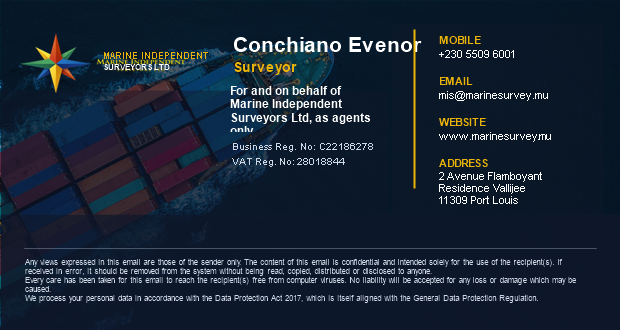
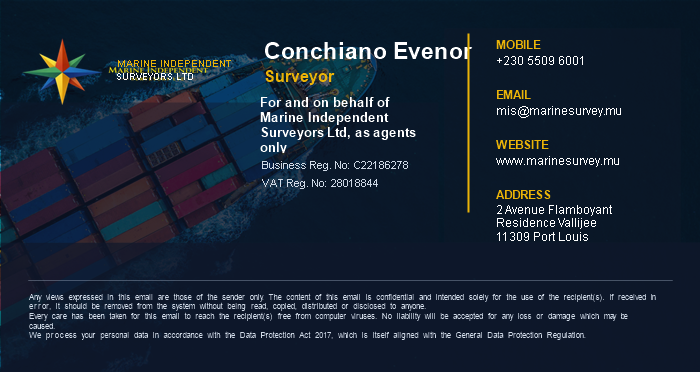
Improve signature readability and spacing

diff --git a/src/App.tsx b/src/App.tsx
@@ -76,7 +76,7 @@ export default function App() {
                 cellSpacing="0"
                 border={0}
                 style={{
-                  width: '700px',
+                  width: '720px',
                   borderCollapse: 'collapse',
                   fontFamily: 'Arial, sans-serif',
                   backgroundColor: '#ffffff',
@@ -89,13 +89,13 @@ export default function App() {
                         src="/signature-card.png"
                         data-remote-src={signatureImageUrl}
                         alt="Marine email signature"
-                        width="700"
-                        height="372"
+                        width="720"
+                        height="430"
                         style={{
                           display: 'block',
-                          width: '700px',
-                          maxWidth: '700px',
-                          height: '372px',
+                          width: '720px',
+                          maxWidth: '720px',
+                          height: '430px',
                           border: '0',
                         }}
                       />
